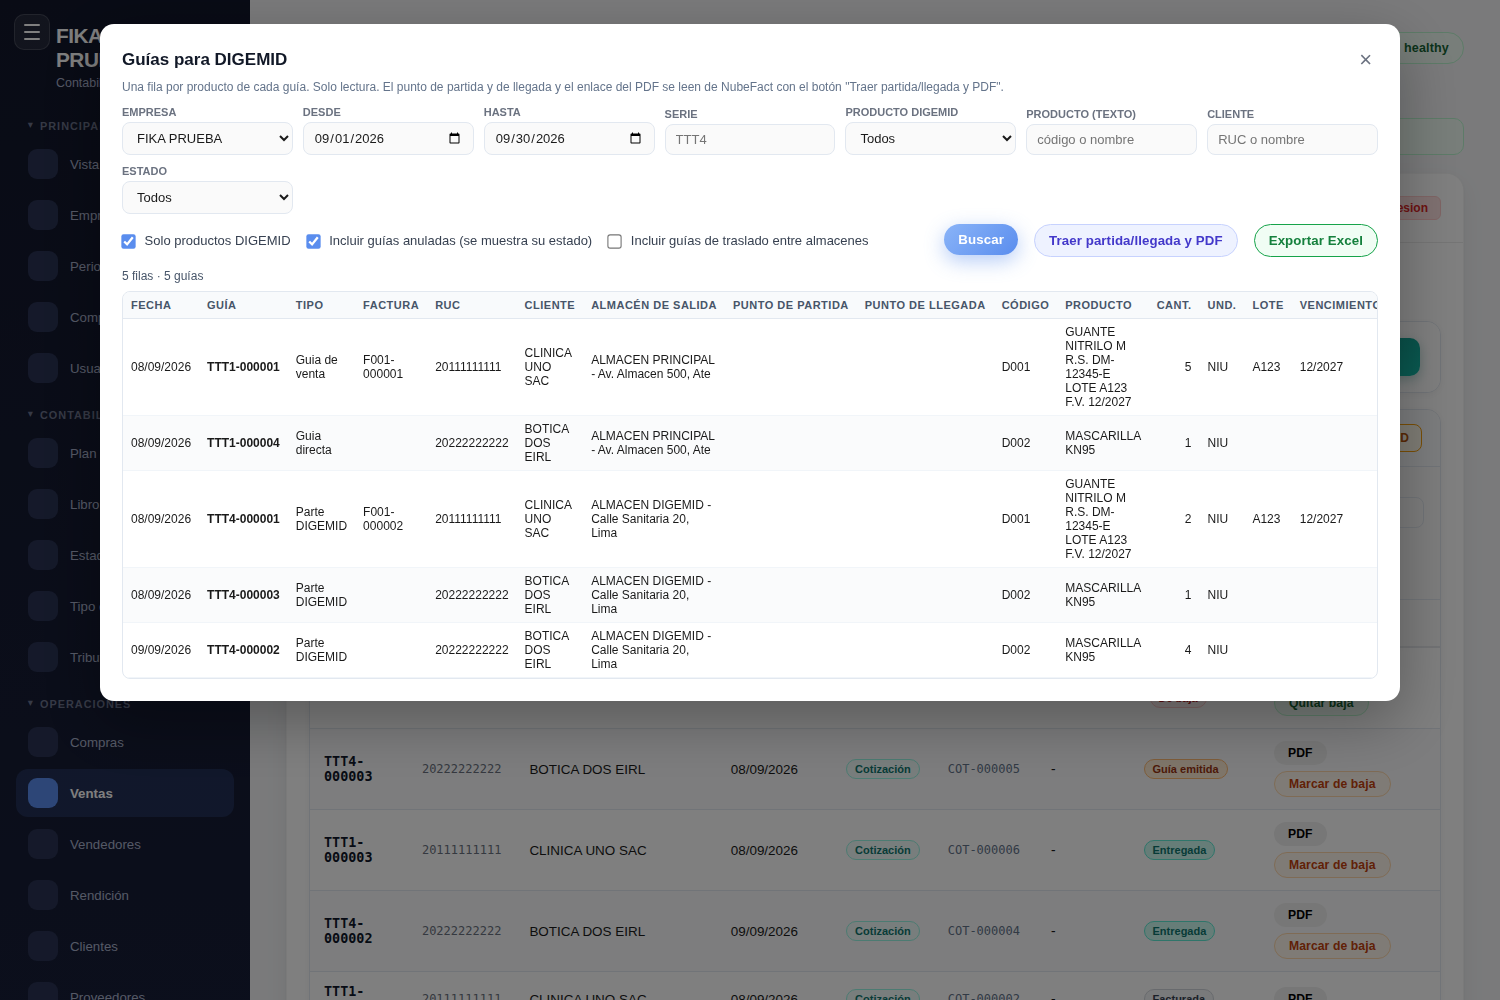
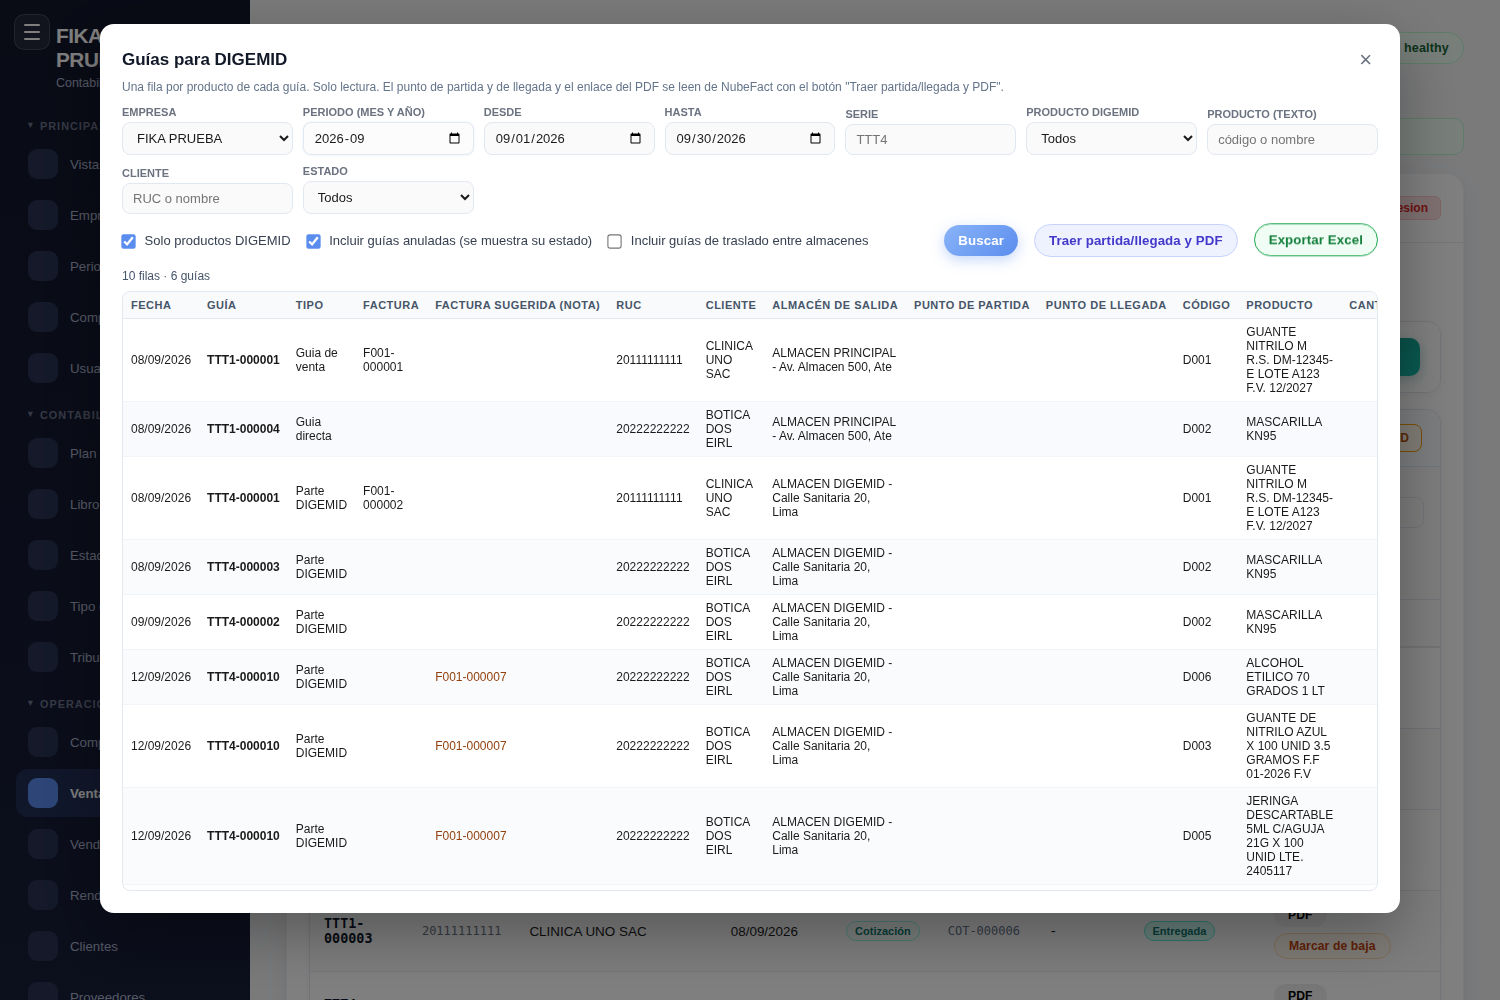
Evidencias: ajustes de la rama claude/guias-digemid (periodo, lote/vencimiento, sugeridas)
Claude-Session: https://claude.ai/code/session_01TRpE1oShihdbrH9mzx317w

diff --git a/capturas_guias_digemid/ui_dig.js b/capturas_guias_digemid/ui_dig.js
@@ -21,8 +21,11 @@ const W = (p, ms) => p.waitForTimeout(ms);
   await p.click('button[data-view="sales"]'); await W(p, 1500);
   await p.evaluate(() => { state.salesTab = 'guides'; }); const gt = p.locator('[data-tab="guides"]'); if (await gt.count()) { await gt.first().click(); await W(p, 3000); }
   await p.click('text=Guías para DIGEMID'); await W(p, 1000);
-  await p.fill('#dgr-from', '2026-09-01'); await p.fill('#dgr-to', '2026-09-30');
-  await p.click('#dgr-search'); await W(p, 2500);
+  log({ paso: '2a valores por defecto', solo_digemid: await p.isChecked('#dgr-only-digemid'), traslados: await p.isChecked('#dgr-include-transfers'), periodo: await p.inputValue('#dgr-period') });
+  await p.fill('#dgr-period', '2026-09'); await p.dispatchEvent('#dgr-period', 'change'); await W(p, 3000);
+  log({ paso: '2b periodo 2026-09 elegido', desde: await p.inputValue('#dgr-from'), hasta: await p.inputValue('#dgr-to') });
+  const [dl0] = await Promise.all([p.waitForEvent('download'), p.click('#dgr-export')]);
+  await dl0.saveAs(OUT + '_digemid_periodo.xlsx'); log({ paso: '2c Excel directo del periodo', archivo: dl0.suggestedFilename() });
   log({ paso: '2 reporte DIGEMID por defecto', info: await p.textContent('#dgr-info'), productos_digemid_en_filtro: await p.locator('#dgr-item option').count() - 1 });
   await p.screenshot({ path: OUT + '_digemid_1.png', fullPage: false });
   await p.click('#dgr-places'); await W(p, 4000);

diff --git a/capturas_guias_digemid/datos.py b/capturas_guias_digemid/datos.py
@@ -47,6 +47,15 @@ with app.app_context():
         for it, q in lines:
             db.session.add(SalesWorkflowLine(workflow_id=w.id, company_id=c.id, inventory_item_id=it.id, warehouse_id=wh.id, description=it.description, quantity=q, unit='NIU', unit_price=10))
         return w
+    # Productos con nombre largo como los de FLUMISA (la linea de la guia viene recortada a 60 caracteres)
+    largos = [
+        ('D003', 'GUANTE DE NITRILO AZUL X 100 UNID 3.5 GRAMOS F.F 01-2026 F.V 01-2029 LTE. IN25029097 R.S. DM-10293-E'),
+        ('D004', 'MASCARILLA QUIRURGICA 3 PLIEGUES X 50 UNID LTE. MQ2408 F.F. 08-2024 F.V. 08-2027'),
+        ('D005', 'JERINGA DESCARTABLE 5ML C/AGUJA 21G X 100 UNID LTE. 2405117 F.V. 05/2029'),
+        ('D006', 'ALCOHOL ETILICO 70 GRADOS 1 LT'),                      # sin rotulos: celdas vacias
+        ('D007', 'GASA ESTERIL 10X10 CM X 100 SOBRES LOTE SIN NUMERO F.V. VER EMPAQUE'),  # rotulos sin dato: vacias
+    ]
+    largos = [item(c, d, True) for c, d in largos]
     s1 = sale('000001', cu, [(i1, 5)])                                   # una guia
     s2 = sale('000002', cu, [(i1, 2), (i3, 1)])                          # dos guias (venta + parte DIGEMID)
     s3 = sale('000003', cu2, [(i2, 4)], notes='Guia de remision: TTT4-000009')   # DIGEMID sin guia
@@ -60,6 +69,11 @@ with app.app_context():
     g5 = guia(cu2, 'TTT4', '000003', [(i2, 1)], None, status='guide_voided', notes='[DIGEMID]', wh=alm2)  # anulada SUNAT
     g6 = guia(cu, 'TTT1', '000003', [(i3, 3)], None)                     # guia de venta sin DIGEMID
     g7 = guia(cu2, 'TTT1', '000004', [(i2, 1)], None, voided=True, qn='GDIR-000001')  # directa de baja interna
+    g8 = guia(cu2, 'TTT4', '000010', [(x, 2) for x in largos], None, notes='[DIGEMID] parte', dia=12, wh=alm2)
+    for l in g8.lines: l.description = l.description[:60]    # como en produccion: la linea recortada
+    s7 = sale('000007', cu2, [(largos[0], 2)], notes='Venta mostrador | Guia de remision: TTT4-000010')   # sugerida: misma guia y cliente
+    s8 = sale('000008', cu2, [(largos[1], 1)], notes='Guia de remision: TTT1-000001')   # guia de OTRO cliente: no se sugiere
+    s9 = sale('000009', cu2, [(largos[2], 1)], notes='Ver guia TTT4-777')               # guia que no existe: no se sugiere
     t1 = StockTransfer(company_id=c.id, transfer_number='TR-0001', from_warehouse_id=alm.id, to_warehouse_id=alm2.id, transfer_date=D(2026,9,7), status='received', notes='Reposicion\n[TRF_GUIDE:TTT5-000001]', guide_sent=True)
     db.session.add(t1); db.session.flush()
     db.session.add(StockTransferLine(transfer_id=t1.id, company_id=c.id, item_id=i2.id, quantity_requested=10, quantity_sent=10))
@@ -70,5 +84,5 @@ with app.app_context():
     rol = Role(name='Administrador', company_id=c.id); db.session.add(rol); db.session.flush()
     u = User(email='admin@t.pe', username='admin', password_hash=generate_password_hash('p'), first_name='A', last_name='B', role_id=rol.id, company_id=c.id, is_active=True)
     db.session.add(u); db.session.commit()
-    json.dump(dict(CID=c.id, C2=c2.id, UID=u.id, I1=i1.id, I2=i2.id, S1=s1.id, S2=s2.id, S3=s3.id, G1=g1.id, G4=g4.id, T1=t1.id), open('/tmp/claude-0/repro/dig/ids.json', 'w'))
+    json.dump(dict(CID=c.id, C2=c2.id, UID=u.id, I1=i1.id, I2=i2.id, S1=s1.id, S2=s2.id, S3=s3.id, S7=s7.id, S8=s8.id, S9=s9.id, G8=g8.id, G1=g1.id, G4=g4.id, T1=t1.id), open('/tmp/claude-0/repro/dig/ids.json', 'w'))
     print(c.id)

diff --git a/capturas_guias_digemid/comparar.py b/capturas_guias_digemid/comparar.py
@@ -1,0 +1,23 @@
+# Compara la extraccion del reporte (Python) con la del SQL (PostgreSQL) sobre los mismos textos
+import os, sys, subprocess, json
+sys.path.insert(0, '/tmp/claude-0/wt_dig/backend'); os.environ['DATABASE_URL'] = 'sqlite://'
+import warnings; warnings.filterwarnings('ignore')
+from app.routes.guide_report_routes import _from_text
+textos = [r[0] for r in json.loads(subprocess.run(['su', 'postgres', '-c', "psql -p 5433 -d digemid -Atc \"select json_agg(json_build_array(trim(coalesce(description,'')||' '||coalesce(secondary_description,'')))) from inventory_item where requires_digemid\""], capture_output=True, text=True, cwd='/tmp').stdout)]
+textos += ['PARACETAMOL VENC. 2027-05-30 RS: EE-01234', 'BOLSA LTE. SIN NUMERO', 'X LTE.IN25 FV:03/2028 FF:01/2026', 'Y Lote: ab-12 vto 2029-01', 'COLTE.99 SALVE F.V.12-2030', 'R.S. N° DM-000-E']
+sql = "select json_agg(json_build_array(t, " + ", ".join(
+    "substring(t from '" + rx + "')" for rx in [
+ r"(?i)(?:^|[^A-Z0-9])(?:R\.?\s?S\.?|REG(?:ISTRO)?\.?\s*SAN(?:ITARIO)?\.?)\s*(?:N[°ºO]\.?\s*)?[:#\-]?\s*([A-Z]{1,4}[\-\s]?[0-9]{2,}[A-Z0-9\-/]*)",
+ r"(?i)(?:^|[^A-Z0-9])(?:LOTE|LTE)\.?\s*(?:N[°ºO]\.?\s*)?[:#\-]?\s*([A-Z0-9\-/]*[0-9][A-Z0-9\-/]*)",
+ r"(?i)(?:^|[^A-Z0-9])(?:F\.?\s?V(?:ENC)?\.?|VENC(?:IMIENTO)?\.?|VTO\.?)\s*[:\-]?\s*([0-9]{1,2}[/\-.][0-9]{1,2}[/\-.][0-9]{2,4}|[0-9]{1,2}[/\-.][0-9]{4}|[0-9]{4}[/\-.][0-9]{1,2}(?:[/\-.][0-9]{1,2})?)",
+ r"(?i)(?:^|[^A-Z0-9])F\.?\s?F\.?\s*[:\-]?\s*([0-9]{1,2}[/\-.][0-9]{1,2}[/\-.][0-9]{2,4}|[0-9]{1,2}[/\-.][0-9]{4}|[0-9]{4}[/\-.][0-9]{1,2}(?:[/\-.][0-9]{1,2})?)"]) + ")) from unnest(%s::text[]) t"
+arr = "ARRAY[" + ",".join("'" + t.replace("'", "''") + "'" for t in textos) + "]"
+open('/tmp/cmp.sql', 'w').write(sql % arr)
+out = json.loads(subprocess.run(['su', 'postgres', '-c', 'psql -p 5433 -d digemid -Atf /tmp/cmp.sql'], capture_output=True, text=True, cwd='/tmp').stdout)
+dif = 0
+for t, rs, lote, venc, fab in out:
+    py = _from_text((t,))
+    sq = {'registro_sanitario': rs or '', 'lote': lote or '', 'vencimiento': venc or '', 'fabricacion': fab or ''}
+    igual = py == sq; dif += not igual
+    print('IGUAL' if igual else 'DISTINTO', '|', t[:70], '->', {k: v for k, v in py.items() if v}, '' if igual else sq)
+print('textos:', len(out), 'diferencias:', dif)

diff --git a/capturas_guias_digemid/api_ajustes.py b/capturas_guias_digemid/api_ajustes.py
@@ -1,0 +1,21 @@
+import os, sys, json
+BACK = os.environ['BACK']; os.environ['DATABASE_URL'] = os.environ['DBP']
+sys.path.insert(0, BACK); os.chdir(BACK)
+import warnings; warnings.filterwarnings('ignore')
+import app as _a; _a._restore_sqlite_database_from_respaldo = lambda app: None
+from app import create_app
+from flask_jwt_extended import create_access_token
+ids = json.load(open('/tmp/claude-0/repro/dig/ids.json')); CID = ids['CID']
+app = create_app()
+with app.app_context(): tok = create_access_token(identity=ids['UID'])
+cl = app.test_client(); H = {'Authorization': 'Bearer ' + tok}
+print('== Reporte DIGEMID, periodo setiembre 2026 (por defecto: solo DIGEMID, sin traslados)')
+rows = cl.get(f'/api/guide-reports/{CID}/digemid-guides?from=2026-09-01&to=2026-09-30', headers=H).get_json()['data']['rows']
+for r in rows:
+    print(f"  {r['guia']:12} {r['tipo_guia']:14} fact={r['factura'] or '-':12} sugerida={r['factura_sugerida'] or '-':12} {r['codigo']} | linea='{r['producto'][:60]}' | lote={r['lote'] or '-'} ff={r['fabricacion'] or '-'} fv={r['vencimiento'] or '-'} rs={r['registro_sanitario'] or '-'} | {r['estado']}")
+print('  guias no DIGEMID en el reporte (TTT1-000002, TTT1-000003):', [r['guia'] for r in rows if r['guia'] in ('TTT1-000002', 'TTT1-000003')])
+print('  traslados en el reporte:', [r['guia'] for r in rows if r['kind'] == 'transfer'])
+print('== sale-guides setiembre: guia sugerida de las facturas sin guia')
+d = cl.get(f'/api/guide-reports/{CID}/sale-guides?from=2026-09-01&to=2026-09-30', headers=H).get_json()['data']
+n = {ids['S1']: 'F001-1', ids['S2']: 'F001-2', ids['S3']: 'F001-3 (nota: TTT4-000009, no existe)', ids['S7']: 'F001-7 (nota: TTT4-000010, mismo cliente)', ids['S8']: 'F001-8 (nota: TTT1-000001, de OTRO cliente)', ids['S9']: 'F001-9 (nota: TTT4-777, no existe)'}
+for k, v in n.items(): print(f"  {v:45} vinculadas={[g['guide_number'] for g in d['guides'].get(k, [])]} sugerida={d['suggested'].get(k, [])}")

diff --git a/capturas_guias_digemid/LEEME.md b/capturas_guias_digemid/LEEME.md
@@ -27,3 +27,14 @@ Las pruebas se hicieron en una base PostgreSQL de prueba armada con `datos.py`:
 | `vol.py` | Prueba de volumen: 3,000 guías (9,005 filas) en 0.86 s |
 
 En estas pruebas NubeFact está simulado (`serve_dig.py`, `api_test.py`); las direcciones de partida y llegada que aparecen son de prueba.
+
+## Ajustes (bd65fb7)
+
+| Archivo | Qué contiene |
+|---|---|
+| `api_ajustes_res.txt` | Reporte del periodo 09/2026: solo productos DIGEMID; lote, F.F. y F.V. tomados del nombre completo aunque la línea esté recortada; factura y guía sugeridas |
+| `conteo_lote_vencimiento_resultado.txt` | `conteo_lote_vencimiento_digemid.sql` en la base de prueba |
+| `comparacion_python_vs_sql.txt` | Mismas reglas en el reporte y en el SQL: 13 textos, 0 diferencias |
+| `dig_digemid_periodo.xlsx` | Excel bajado eligiendo solo el periodo |
+| `dig_ventas.xlsx` | Excel de facturas, con la columna de guía sugerida |
+| `excels_ajustes_leidos.txt` | Contenido de esos dos Excel |
